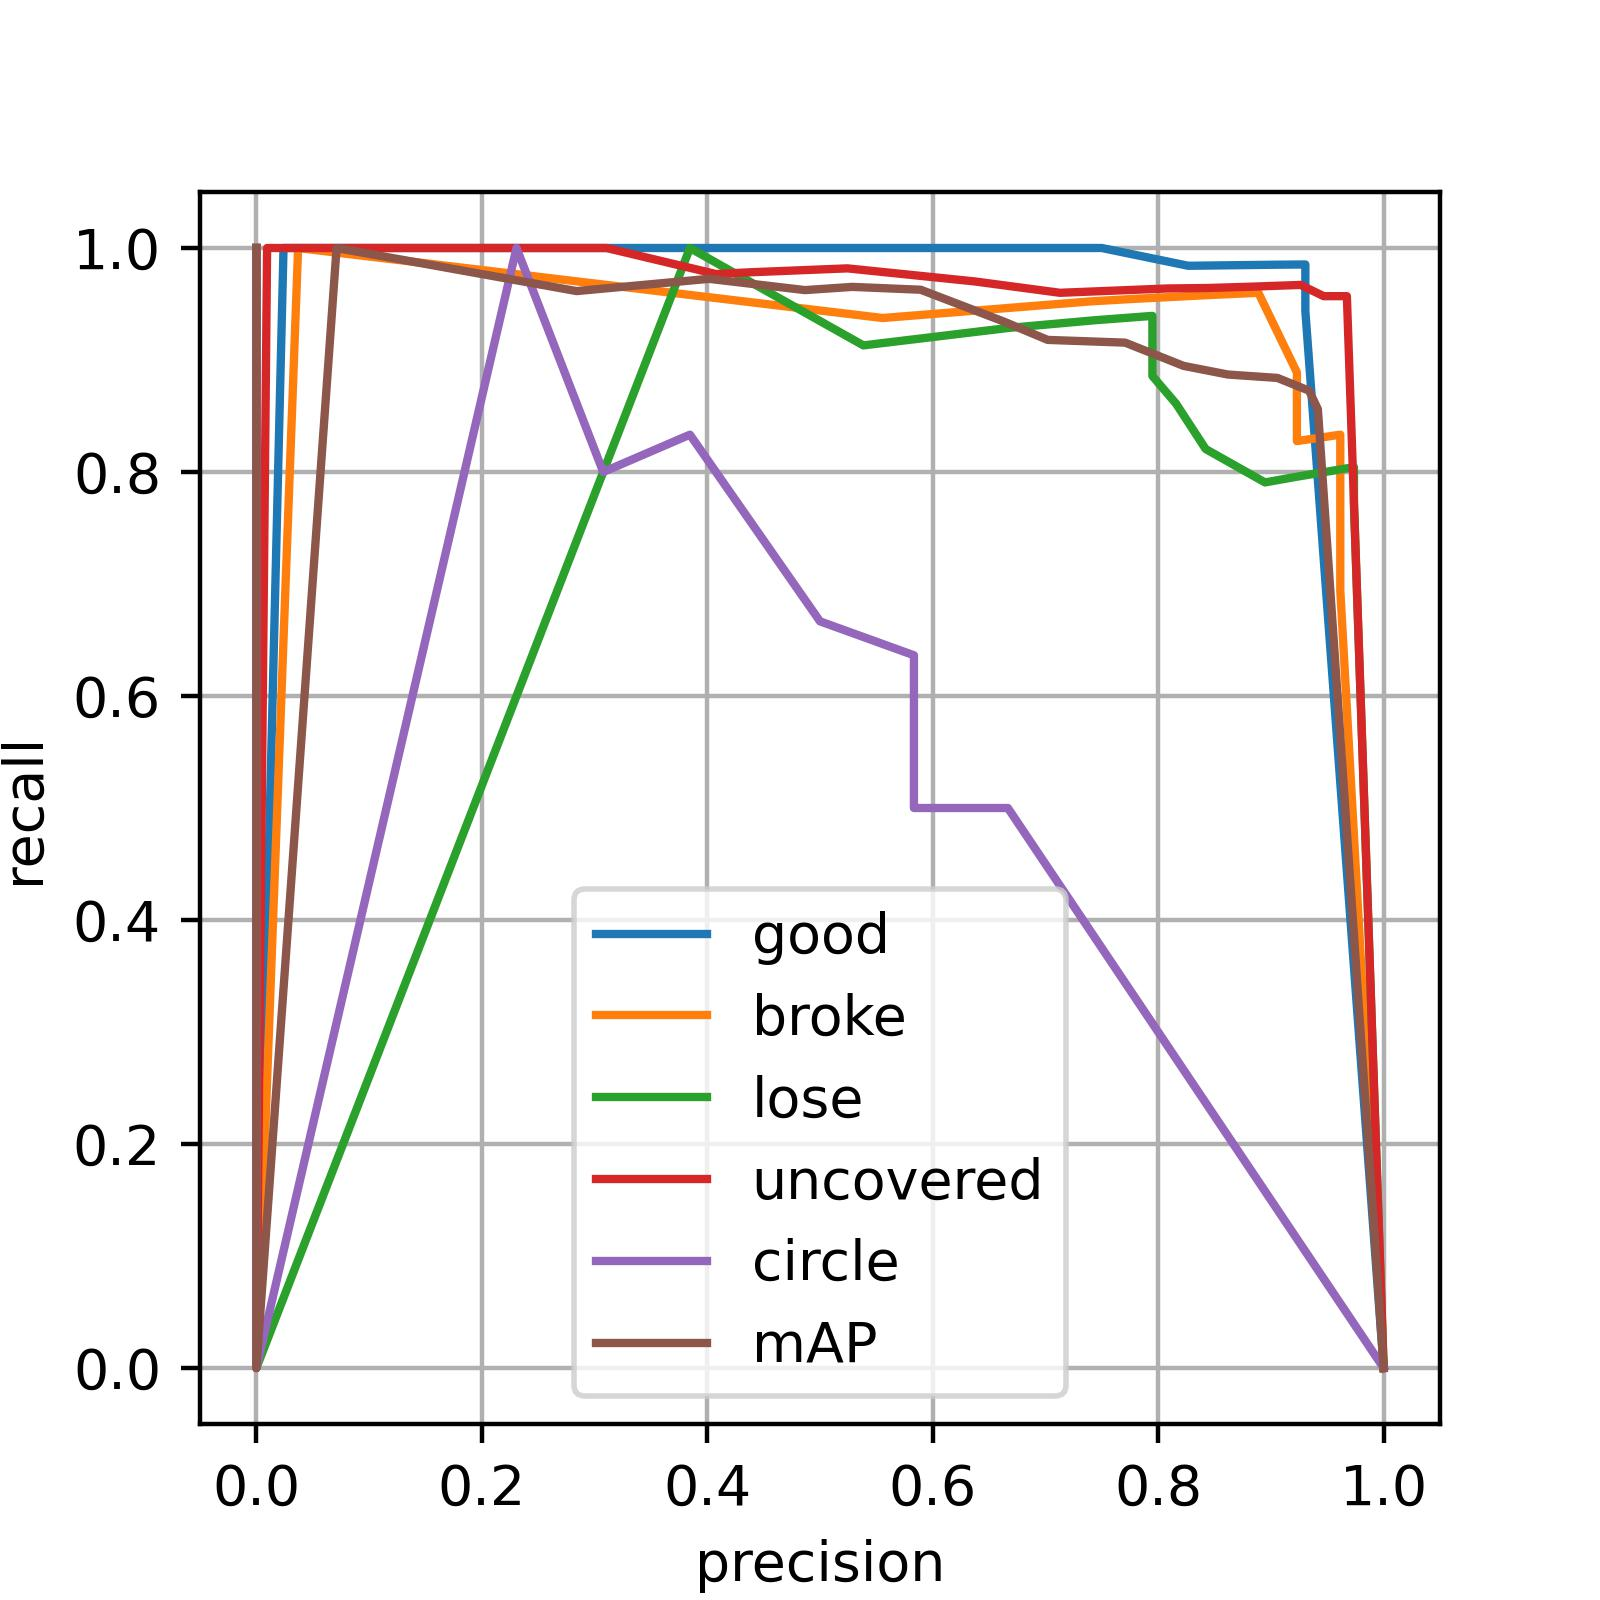
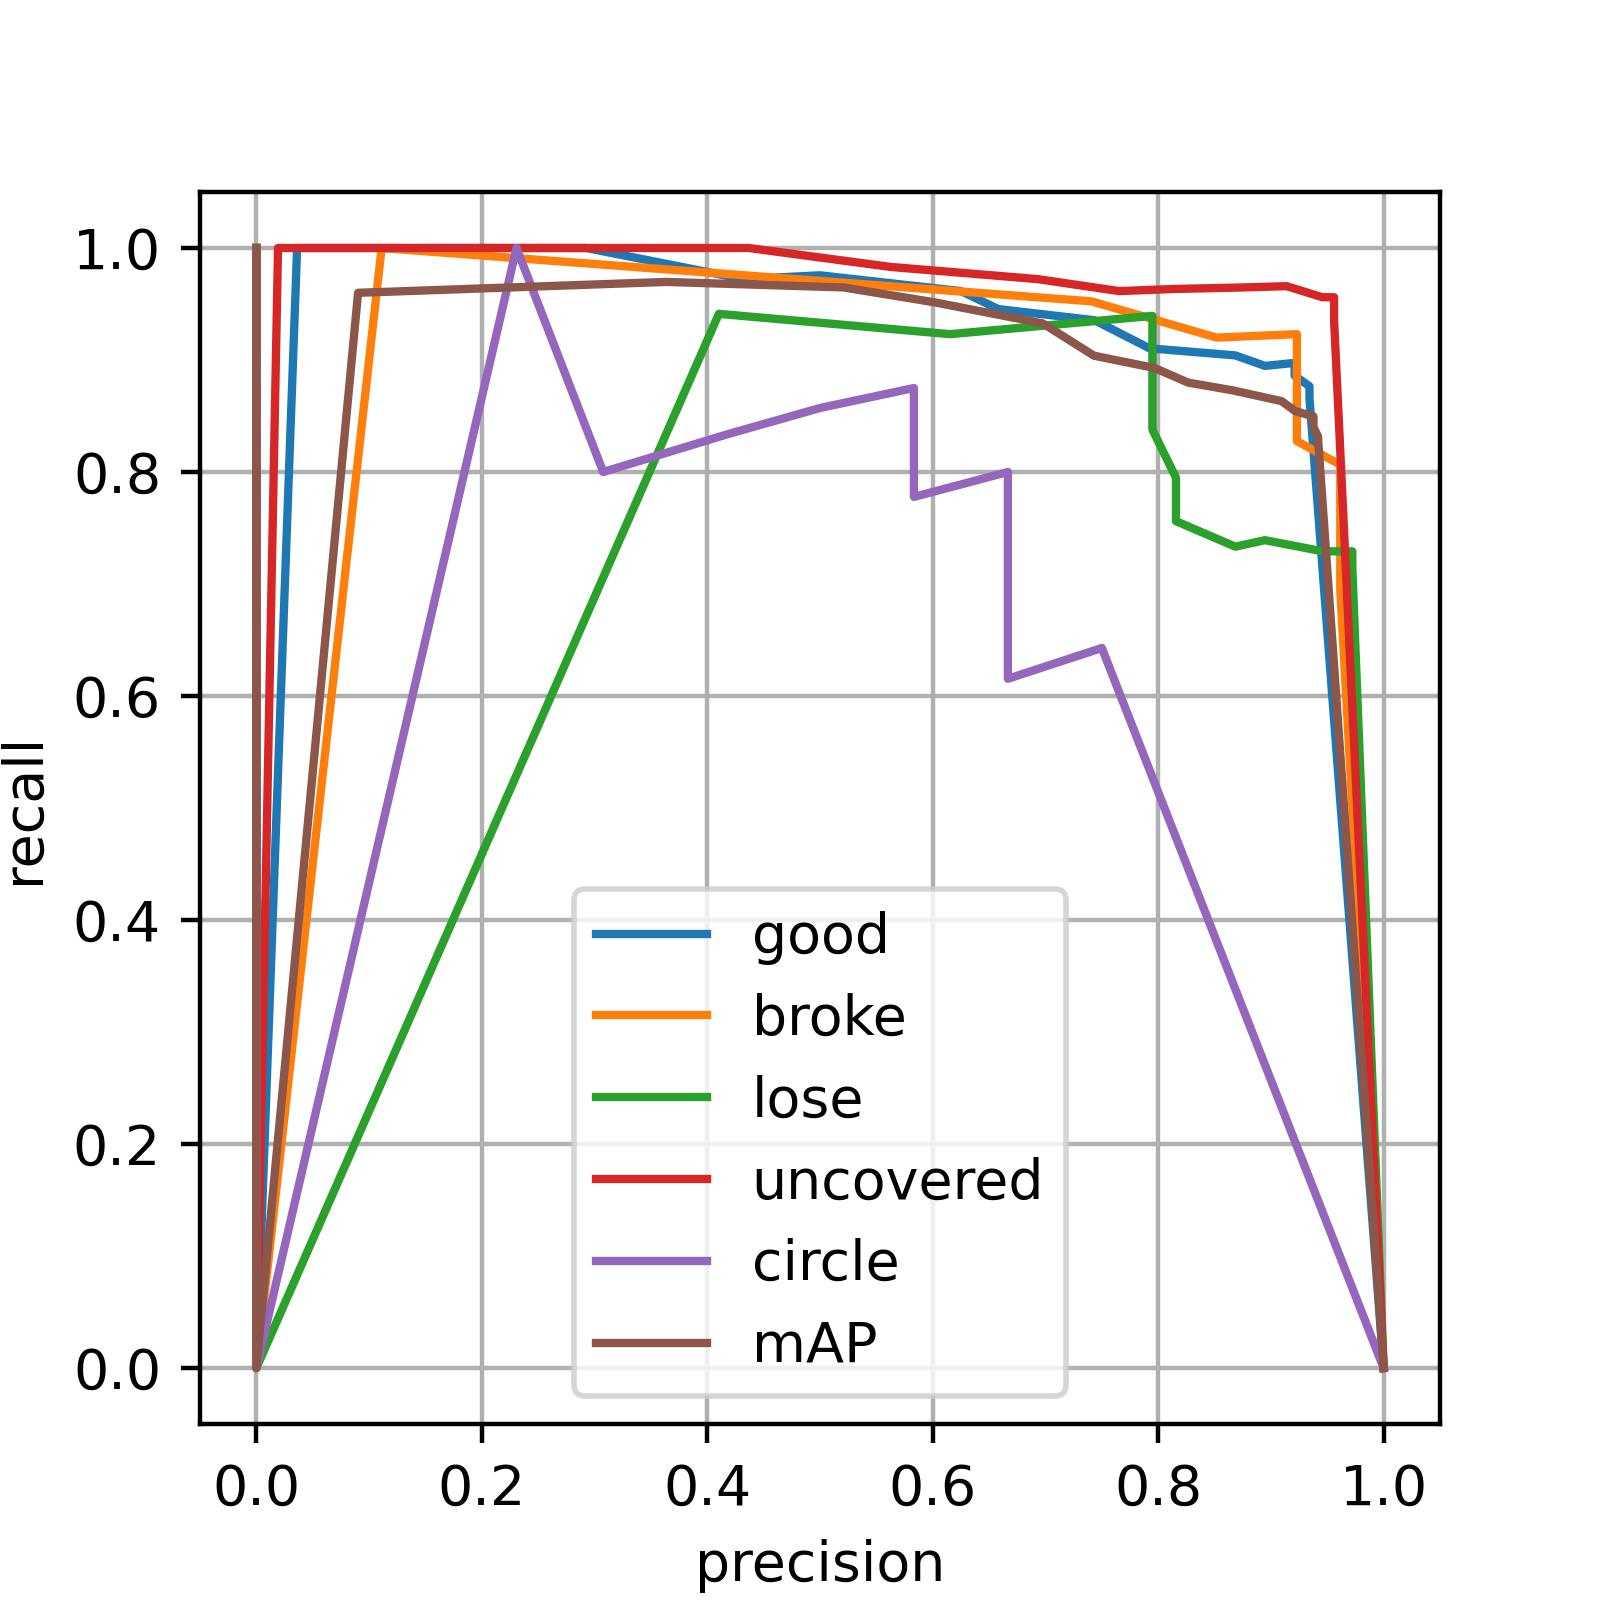
fixed tta

diff --git a/detect/tta.py b/detect/tta.py
@@ -12,9 +12,9 @@ def tta_in(ori_img):
     """
     # print("tta_in")
     return [ori_img,
-            # cv2.flip(ori_img, 0),
+            cv2.flip(ori_img, 0),
             # cv2.flip(ori_img, 1)]
-            # cv2.rotate(ori_img, cv2.ROTATE_90_CLOCKWISE),
+            cv2.rotate(ori_img, cv2.ROTATE_90_CLOCKWISE),
             # cv2.rotate(ori_img, cv2.ROTATE_180),
             # cv2.rotate(ori_img, cv2.ROTATE_90_COUNTERCLOCKWISE)
            ]
@@ -25,12 +25,12 @@ def tta_out(results: list, w, h) -> list:
     # 原始图像直接转换
     ans = [result for result in results[0]]
 
-    # # 垂直翻转转换
-    # for result in results[1]:
-    #     x2max, x2min, y2min, y2max = result.xmax, result.xmin, result.ymin, result.ymax
-    #     result.ymin = h - y2max
-    #     result.ymax = h - y2min
-    #     ans.append(result)
+    # 垂直翻转转换
+    for result in results[1]:
+        x2max, x2min, y2min, y2max = result.xmax, result.xmin, result.ymin, result.ymax
+        result.ymin = h - y2max
+        result.ymax = h - y2min
+        ans.append(result)
 
     # # 水平翻转转换
     # for result in results[2]:
@@ -39,14 +39,14 @@ def tta_out(results: list, w, h) -> list:
     #     result.xmax = w - x2min
     #     ans.append(result)
 
-    # # 90旋转转换
-    # for result in results[2]:
-    #     x2max, x2min, y2min, y2max = result.xmax, result.xmin, result.ymin, result.ymax
-    #     result.xmin = y2min
-    #     result.xmax = y2max
-    #     result.ymin = h - x2max
-    #     result.ymax = h - x2min
-    #     ans.append(result)
+    # 90旋转转换
+    for result in results[2]:
+        x2max, x2min, y2min, y2max = result.xmax, result.xmin, result.ymin, result.ymax
+        result.xmin = y2min
+        result.xmax = y2max
+        result.ymin = h - x2max
+        result.ymax = h - x2min
+        ans.append(result)
 
 #     # 180旋转转换
 #     for result in results[4]:

diff --git a/detect/threads.py b/detect/threads.py
@@ -50,7 +50,7 @@ class CodetrThread(threading.Thread):
     def run(self):
         results = inference_detector(self.model, tta_in(self.pic))
         self.results = []
-        w, h = self.pic.shape[:2]
+        h, w = self.pic.shape[:2]
         for page in results:
             temp_ans = []
             for single_sort in range(num_detect - 1):
